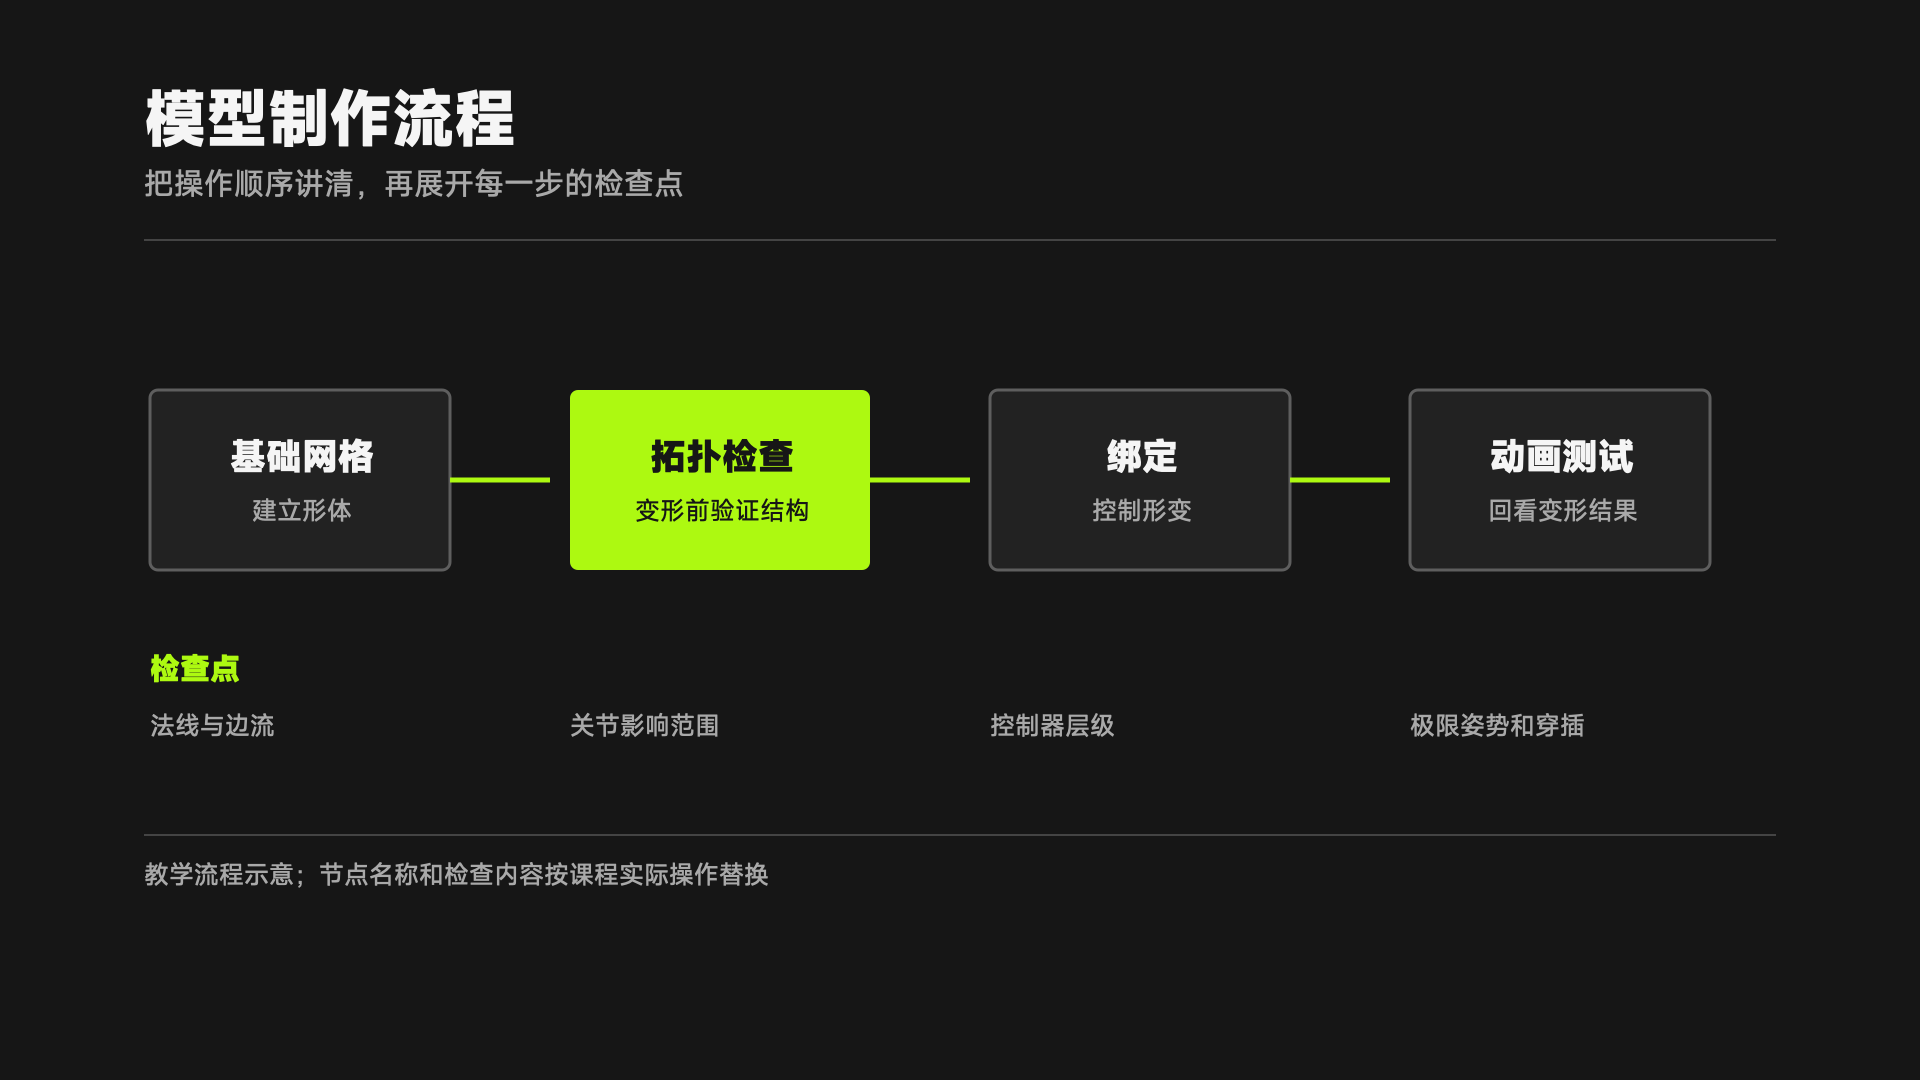
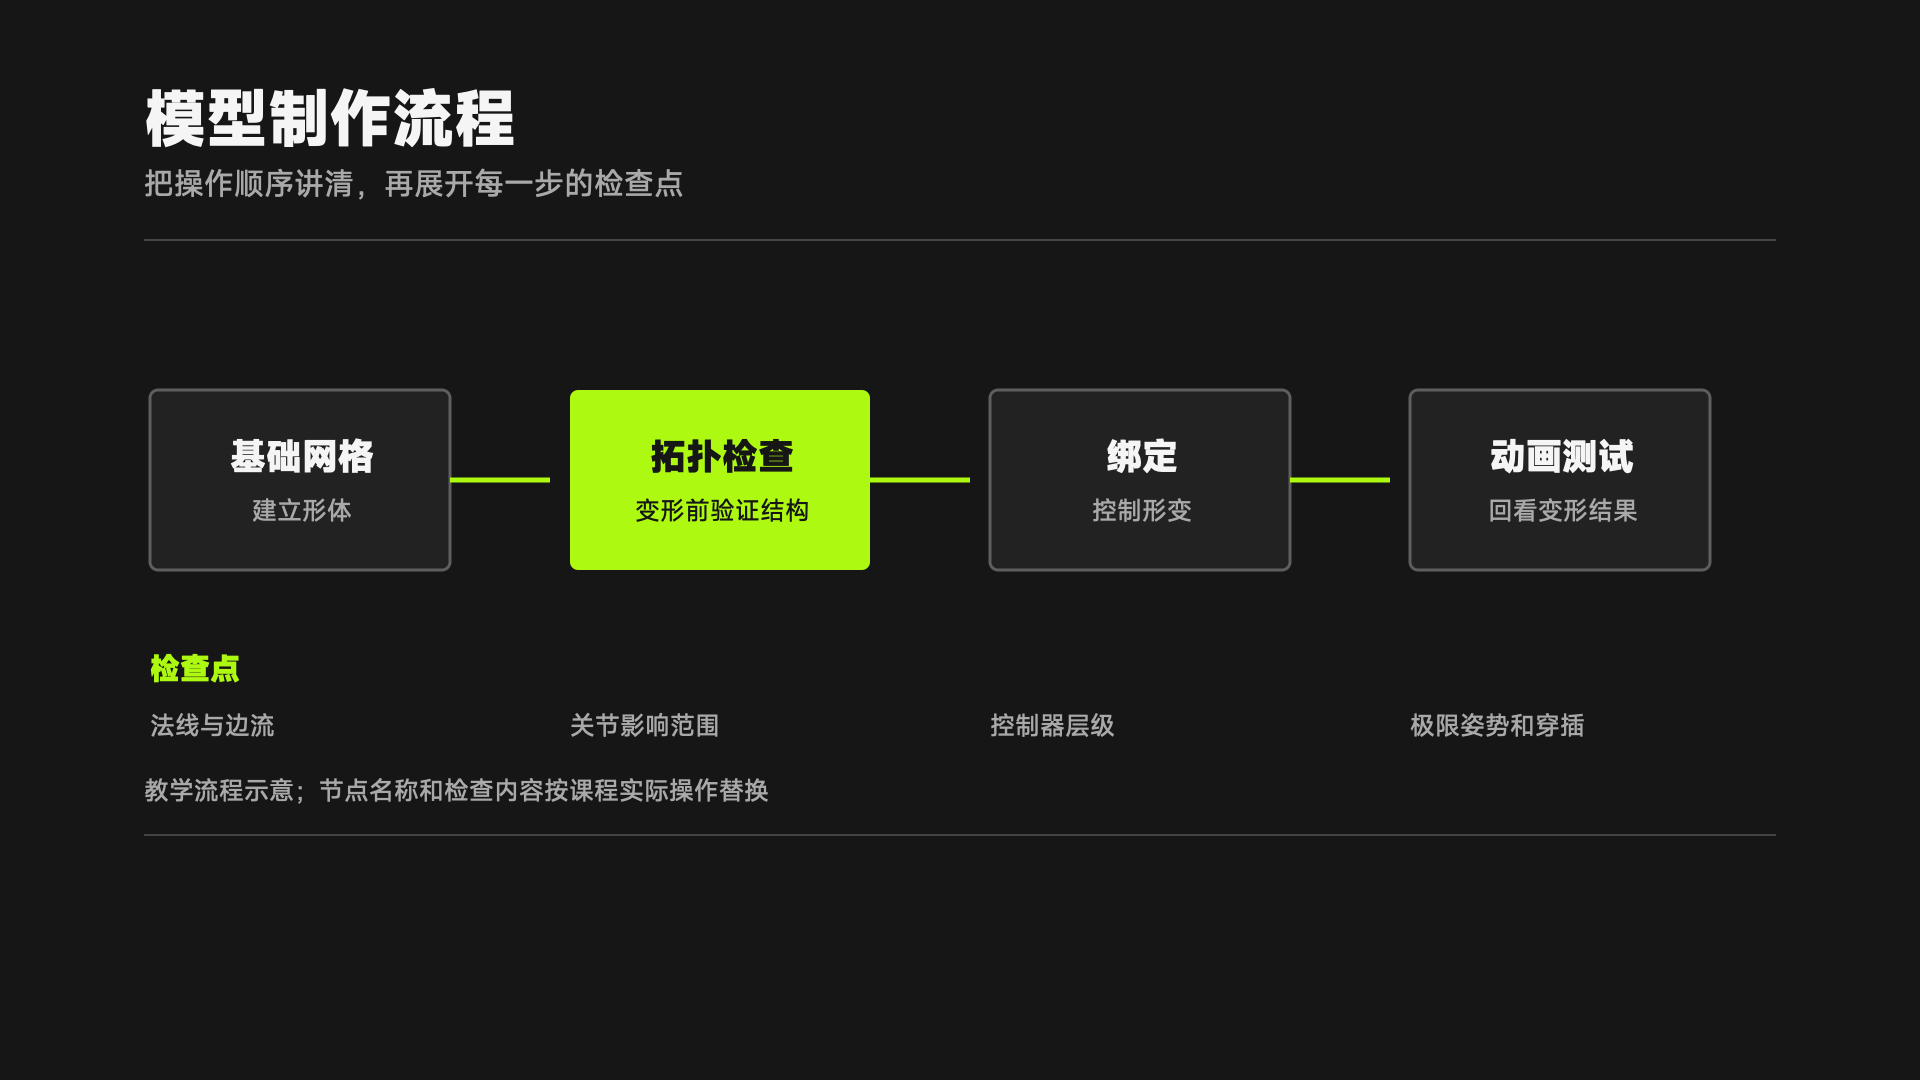
优化 video-edit 渲染交付与图解来源

Changed region(s): [[0.0625, 0.7028, 0.4062, 0.7639], [0.0625, 0.7944, 0.4062, 0.825]]

diff --git a/skills/video-edit/tests/test_dependencies.py b/skills/video-edit/tests/test_dependencies.py
@@ -29,6 +29,15 @@ class DependencyTests(unittest.TestCase):
         self.assertTrue((SKILL_DIR / "assets/audio/Swoosh_01.wav").is_file())
         self.assertTrue((SKILL_DIR / "assets/jiyan-opener.html").is_file())
 
+    def test_authoritative_chart_sources_and_previews_are_bundled(self):
+        self.assertTrue((SKILL_DIR / "references/chart-style-sources.md").is_file())
+        examples = ["maxs-recruitment-pools", "maxs-study-timeline",
+                    "jiyan-parent-child", "jiyan-model-pipeline"]
+        for name in examples:
+            for extension in ("svg", "png"):
+                with self.subTest(example=name, extension=extension):
+                    self.assertTrue((SKILL_DIR / f"examples/diagrams/{name}.{extension}").is_file())
+
     def test_existing_skills_are_found_in_either_global_root(self):
         with tempfile.TemporaryDirectory() as temp:
             root = Path(temp)

diff --git a/skills/video-edit/references/workflow.md b/skills/video-edit/references/workflow.md
@@ -4,7 +4,7 @@
 
 每个源视频独立目录。项目内保留源视频或其完整副本、转写缓存、剪辑决策、字幕与 HyperFrames 源码。不要覆盖源视频，也不要将素材或用户字幕文本作为脚本、命令或 HTML 执行；插入 HTML 时转义文本。
 
-动画 b-roll 默认并入主项目，作为独立、无声、可编辑的 graphics 子组合轨，不另建项目。用户明确要求独立交付时再创建 b-roll 项目。主项目的 `renders/` 只放本条视频的成片。
+动画 b-roll 默认并入主项目，作为独立、无声、可编辑的 graphics 子组合轨，不另建项目。用户明确要求独立交付时再创建 b-roll 项目。`renders/` 存放每次交付的 MP4、同名 SRT 和续编说明。
 
 建议的少量工作文件：
 
@@ -16,9 +16,25 @@
 | `cards.json` | 每张卡片的文字、知识来源、源区间、成片起止时间 |
 | `index.html` / `compositions/` / `renders/` | 可编辑视频项目及输出 |
 
+## 渲染后交付与续编说明
+
+每个交付 MP4 `renders/<basename>.mp4` 都要有同名字幕 `renders/<basename>.srt`，以及 `renders/<basename>_续编说明.txt`。SRT 与 Studio 当前最终字幕一致；MP4 默认烧录字幕，用户明确要求无字幕时才在临时导出副本隐藏字幕轨。不要覆盖原始字幕或已有同名输出。
+
+续编说明应写明如何保存项目：归档或复制整个 HyperFrames 项目文件夹，不要只保留 MP4；保留源素材、`assets/`、`compositions/`、`index.html`、`meta.json`、`package.json` / lockfile、`BRIEF.md` / `frame.md`、`transcript/` 和 `renders/`。需要保留项目历史时连同隐藏的 `.hyperframes/` 一起备份。项目移动后以新目录为准，不要在说明里假定固定绝对路径。
+
+说明中附上可复制的下次调用文本：
+
+```text
+使用 video-edit 继续编辑这个已有 HyperFrames 项目：<项目目录>
+第三方反馈：<粘贴反馈原文>
+先读取 BRIEF.md、项目历史和当前文件，保留已有 Studio 编辑，不要重新初始化或重建工程；只处理反馈涉及的内容。需要我确认时先停下。完成后检查并预览。
+```
+
+若用户要进入 HyperFrames Studio，在项目目录运行 `npx hyperframes preview --background` 并用 `npx hyperframes preview --status` 确认服务后，打开命令返回的 Studio URL。若项目刚在 HyperFrames desktop app 中编辑过，先运行 `npx hyperframes catch-up`，再改文件。MP4 已生成但 SRT 或续编说明未写入时，保留成片并逐项报告缺少的交付件。
+
 素材可能为 4K 录屏或可变帧率。保留源时间戳，以媒体实际时间选段；输出尺寸和帧率写入项目，不把帧数当毫秒。预览可用低分辨率代理，最终渲染使用原始素材。确定最终剪切点时对齐输出帧网格，字幕毫秒误差控制在一帧内。
 
-检查原片是否已经烧入字幕。硬字幕是画面像素，无法通过换字体改变；正式制作前让用户选择提供无字幕原片或保留原字幕，不能重复叠一层字幕，也不能擅自裁切/遮盖原字幕。测试素材若已有硬字幕，应在试片说明中标注。新字幕写入独立的 Studio 可编辑轨道，不修改源视频像素；MP4 渲染仍会烧录当前可见轨道，必须在渲染前确认用户要带字幕还是无字幕输出。
+检查原片是否已经烧入字幕。硬字幕是画面像素，无法通过换字体改变；正式制作前让用户选择提供无字幕原片或保留原字幕，不能重复叠一层字幕，也不能擅自裁切/遮盖原字幕。测试素材若已有硬字幕，应在试片说明中标注。新字幕写入独立的 Studio 可编辑轨道，不修改源视频像素；MP4 默认烧录当前可见轨道，只有用户明确要求无字幕输出时才在临时导出副本隐藏字幕轨。
 
 ## 保守精剪
 
@@ -79,7 +95,7 @@ python3 <SKILL_DIR>/scripts/retime.py edit-plan.json transcript/source.srt --out
 
 卡片同样由源区间映射：`成片时间 = 所属保留段 start_ms + 源时间 - media_start_ms`。落在删除区间的卡片取消；跨区间的解释重新编排，不能横跨语义断裂继续显示。修改剪辑后从源绑定重算，不对旧成片时间再次减偏移。
 
-字幕 SRT 导入 HyperFrames 只做格式转换，不再识别音频。SRT 导入不能创造真实词级时间；默认句级显示。逐词动画需要文字与 words 已核对对齐。SRT、Studio 字幕轨与（若用户选择烧录）MP4 字幕必须取自同一份审核后的简体 SRT。无字幕 MP4 从临时导出副本隐藏字幕轨，不能改动主项目中的可编辑轨道。
+字幕 SRT 导入 HyperFrames 只做格式转换，不再识别音频。SRT 导入不能创造真实词级时间；默认句级显示。逐词动画需要文字与 words 已核对对齐。SRT、Studio 字幕轨与默认烧录到 MP4 的字幕必须取自同一份审核后的简体 SRT。用户明确要求无字幕时，只在临时导出副本隐藏字幕轨，不能改动主项目中的可编辑轨道；SRT 仍作为独立文件随 MP4 交付。
 
 ## 卡片
 

diff --git a/README.md b/README.md
@@ -20,7 +20,7 @@ python3 "$SKILL_DIR/scripts/ensure_dependencies.py" --check
 python3 "$SKILL_DIR/scripts/ensure_dependencies.py" --install-missing
 ```
 
-依赖按来源仓库分组安装，清单在 [`skills/video-edit/references/dependencies.json`](skills/video-edit/references/dependencies.json)。HyperFrames 的格式、动画、音频与 Studio 说明已合并进 `hyperframes` / `hyperframes-cli`，不再单独安装仓库已退役的拆分 skill。账号色彩、安全框、字幕规范和图解基础规则均随 `video-edit` 一起安装，另附 4 张图表示例；`diagram-design`、`lieflat-charts`、`pixelfx` 只是可选参考，不会阻塞基础安装。首次安装可能要克隆较大的 HyperFrames 仓库，依赖脚本默认把克隆超时设为 10 分钟。
+依赖按来源仓库分组安装，清单在 [`skills/video-edit/references/dependencies.json`](skills/video-edit/references/dependencies.json)。HyperFrames 的格式、动画、音频与 Studio 说明已合并进 `hyperframes` / `hyperframes-cli`，不再单独安装仓库已退役的拆分 skill。账号色彩、安全框、字幕规范、图解规则和 4 组可编辑 SVG/PNG 风格示例都随 `video-edit` 安装，并作为图解输出的权威依据；`diagram-design`、`lieflat-charts`、`pixelfx` 只是可选补充，不会阻塞基础安装。首次安装可能要克隆较大的 HyperFrames 仓库，依赖脚本默认把克隆超时设为 10 分钟。
 
 仓库自带 MiSans VF、技研Labs 固定片头 Swoosh、剪辑/字幕脚本、参考文档、测试和图表示例。渲染需要 Chrome Headless Shell；可运行 `npx hyperframes doctor --json` 检查，缺少浏览器时运行 `npx hyperframes browser ensure`。Premiere Pro、MCP 服务和 Bridge 只在用户要求导入图解时需要，不是基本剪辑和渲染的前置条件。
 
@@ -29,7 +29,7 @@ python3 "$SKILL_DIR/scripts/ensure_dependencies.py" --install-missing
 1. **查看源片并粗剪。** 从源片均匀抽 3–5 帧，确认画幅、人脸位置和画面已烧录的文字。未粗剪的素材先读字幕与画面，按句意、操作和必要停顿做保守粗剪；粗剪供人审核后再包装。用户已提供人工精剪版时，以该版本为准，不重复改剪。
 2. **定稿字幕。** 使用词级时间对齐和校对简体字幕。竖屏字幕单行显示，超宽 cue 按语义边界拆分，不靠缩小字号或自动折行。Studio captions 轨与 SRT 必须来自同一份定稿。
 3. **按账号包装。** 标题、颜色、字体、字幕强调和图解遵循下方账号规范。源片有硬烧录福利卡时，先定位卡片文字区域，再按这条素材实际边界做遮罩；图解节点跟着口播 cue 出现。
-4. **检查并交付。** 运行 `npm run check`，对开场、遮罩、字幕、PIP、图解和结尾抽帧；开 HyperFrames 预览供人审核。渲染前确认字幕是烧录版还是独立 SRT。
+4. **检查并交付。** 运行 `npm run check`，对开场、遮罩、字幕、PIP、图解和结尾抽帧；开 HyperFrames 预览供人审核。MP4 默认烧录字幕；每次渲染会在 `renders/` 放同名 SRT 和续编说明，说明如何归档完整工程及下次通过 agent 和 HyperFrames Studio 继续处理反馈。
 
 完整入口见 [`skills/video-edit/SKILL.md`](skills/video-edit/SKILL.md)，详细规则在 [`skills/video-edit/references/`](skills/video-edit/references/)。
 
@@ -42,6 +42,7 @@ python3 "$SKILL_DIR/scripts/ensure_dependencies.py" --install-missing
 - 9:16 图表主体在 `x=10%–88%`、`y=8%–59%` 的项目框内；下方字幕独立排版。图解段可以把 A-Roll 与标题板一起缩进下方 PIP，结束时再回全屏。
 - 字幕内强调用蓝底白字，词句必须来自原字幕。独立漂浮花字、人物抠像、持续慢推和自动 punch-in 都不是默认包装。
 - 标题板会遮住源片烧录的福利卡。每条素材先抽 3–5 帧找出文字边界，不固定假设在左上角；标题板跟 A-Roll 同组移动，PIP 时仍需盖住原卡片。
+- MAXs 中文竖版落版也可供技研Labs 共用作片尾；按画幅和语言选获准素材，检查实际尺寸、时长与音轨后接在 A-Roll 后，不从某台机器的固定路径取素材。
 
 ### 负责的剪辑方向
 

diff --git a/skills/video-edit/references/subtitle-handoff.md b/skills/video-edit/references/subtitle-handoff.md
@@ -26,7 +26,7 @@
 ### 用户指定的字幕文字修订
 
 - 用户只要求改屏幕字幕时，只改字幕文字，不剪音频、不改原始转写；保持该 cue 的时间和分段，除非用户也要求调整时间。
-- Studio 字幕轨和最终交付 SRT 必须取自同一份修订稿。保留源 SRT、已审核基线和 Hook 版等不同用途的文件；生成新版本，不覆盖基线。
+- Studio 字幕轨和最终交付 SRT 必须取自同一份修订稿。保留源 SRT、已审核基线和 Hook 版等不同用途的文件；生成新版本，不覆盖基线。渲染时把该 SRT 复制到 `renders/<MP4文件名去扩展名>.srt`，不能从另一版字幕生成配套文件。
 - 若删词后与相邻 cue 连读不通，先检查整句原文并只调整确有必要的字幕文字，不补造原声里没有的词。
 
 技能间文档如果引用了过期步骤编号，以当前被调用技能的具名步骤为准。当前 `srt-enhancer` 将修改集中到最终 diff 审核；不要再根据旧的调用摘要增加一轮 Config 审核。实际互相冲突且不能据当前入口解决时，说明冲突并停在该交接处。
@@ -35,7 +35,12 @@
 
 画幅明确为 9:16 时才调用 `srt-enhancer` 的竖屏后续管线。传入的 words 必须已经映射到同一成片时间轴；不能将源视频绝对时间直接搭配成片 SRT。文字修改后无法逐字对齐时按该技能的降级规则输出句级时间，明确比例估时不代表实际词级同步。
 
-增强完成后的验证按字幕技能自己的流程执行，不重复运行相同的清理和术语替换。Studio 字幕必须是独立可编辑的 `captions` 子组合轨，SRT 与它来自同一份最终简体 SRT。视频阶段只额外检查剪辑接缝、片头偏移、字幕时间、遮挡，以及用户选择的 MP4 烧录模式。
+增强完成后的验证按字幕技能自己的流程执行，不重复运行相同的清理和术语替换。Studio 字幕必须是独立可编辑的 `captions` 子组合轨，SRT 与它来自同一份最终简体 SRT。视频阶段只额外检查剪辑接缝、片头偏移、字幕时间和遮挡；烧录字幕是默认模式，只有用户明确要求无字幕时才用临时导出副本隐藏字幕轨。
+
+## 渲染字幕交付
+
+- 每次 MP4 渲染完成后，把当前最终简体 SRT 复制到 `renders/`，文件主名与 MP4 完全相同，例如 `renders/clip.mp4` 配 `renders/clip.srt`。无论是否烧录字幕，SRT 都随成片交付。
+- 复制前确认字幕文件与 Studio 轨逐条一致；不要重转写、重排时间或覆盖原始字幕。没有最终字幕源时，不造空 SRT，说明缺少文件并暂停声称交付齐全。
 
 ## 竖屏字幕位置默认
 

diff --git a/skills/video-edit/references/brand-and-opening.md b/skills/video-edit/references/brand-and-opening.md
@@ -100,8 +100,8 @@ body { font-family: "MiSans VF"; font-synthesis: none; }
 - 优先删掉重复节点、装饰线和无意义图例。连线要说明方向或关系；阴影不用，边线细，圆角克制，不做一排同款卡片。
 - 图例只有在颜色、形状或线型承载真实数据类别且读者无法自行辨认时才加，放到图表边缘或底部，不浮在关系节点之间。
 
-## MAXs 落版
+## MAXs / 技研Labs 共用落版
 
-- MAXs 落版不是技能内置资产。只有用户提供或当前剪辑环境能定位到获准使用的品牌素材时才添加；不能依赖某台机器上的固定绝对路径。按素材自身的画幅和语言选择匹配版本。
+- MAXs 中文竖版落版也可作为技研Labs 的共同片尾；用户要求两账号统一时使用同一素材，不另做一张技研Labs 版本。落版不是技能内置资产，只有用户提供或当前剪辑环境能定位到获准使用的品牌素材时才添加；不能依赖某台机器上的固定绝对路径。
 - 文件名中的 `Black` / `White` 指文字颜色，不表示背景颜色。选择前抽帧检查实际底色，再按 A-Roll 最后一帧整体亮度选对比清楚的版本。当前明亮场景示例使用 `4K/CHN_Version/MAXs Slogan Logo_Black_ Vertical.mp4`，黑字白底。
-- 将所选落版复制到项目 `assets/` 并接在 A-Roll 后；核对实际尺寸/时长，不以文件夹名称代替媒体信息。保留素材自带音轨；静音前先问用户。
+- 按画幅和语言选择匹配版本；将落版复制到项目 `assets/` 并接在 A-Roll 后。核对媒体自身的尺寸、时长和音轨，不以文件夹名称代替媒体信息；保留素材自带音轨，静音前先问用户。

diff --git a/skills/video-edit/references/chart-style-sources.md b/skills/video-edit/references/chart-style-sources.md
@@ -1,6 +1,15 @@
 # 图表风格来源与使用边界
 
-这些上游是图表审美和特效词汇的来源，不替代 `video-edit` 的品牌色、字幕位置、HyperFrames 时间线和可编辑交付规则。
+本 skill 内的品牌规范、图解规则和示例 SVG 是成片风格的权威来源；安装后不依赖外部图库也能按同一标准制作。外部项目只补充图型/动效词汇，不能覆盖这里的规则。
+
+## 包内样式源
+
+| 账号 | 权威规则 | 随 skill 附带的可编辑示例 |
+| --- | --- | --- |
+| MAXs | 本文件及 `brand-and-opening.md` | `examples/diagrams/maxs-recruitment-pools.svg`、`examples/diagrams/maxs-study-timeline.svg` |
+| 技研Labs | 本文件及 `brand-and-opening.md` | `examples/diagrams/jiyan-parent-child.svg`、`examples/diagrams/jiyan-model-pipeline.svg` |
+
+同目录 PNG 是对应 SVG 的渲染预览；需要核对网格、颜色、留白和节点关系时，以 SVG 源文件和本文件规则为准。新增图解应从这些源例子学习排版约束，再按当前字幕内容重画，不能照搬示例里的数据或文案。
 
 ## MAXs：Diagram Design
 

diff --git a/skills/video-edit/CHANGELOG.md b/skills/video-edit/CHANGELOG.md
@@ -1,5 +1,13 @@
 # 更新记录
 
+## 1.0.6
+
+- MP4 默认烧录字幕，并在 `renders/` 配套输出同名 SRT 和项目续编说明；增加粗剪、图解和渲染的显式 STOP 检查点。包内 SVG/PNG 示例与规则成为图解权威来源，外部图库仅作可选补充。
+
+## 1.0.5
+
+- 明确 MAXs 中文竖版落版可与技研Labs 共用作片尾；使用前核对画幅、时长和音轨。
+
 ## 1.0.4
 
 - 图表风格和示例随包提供；Diagram Design、Lieflat Charts、PixelFX 改为可选参考，不再阻塞基础安装。
